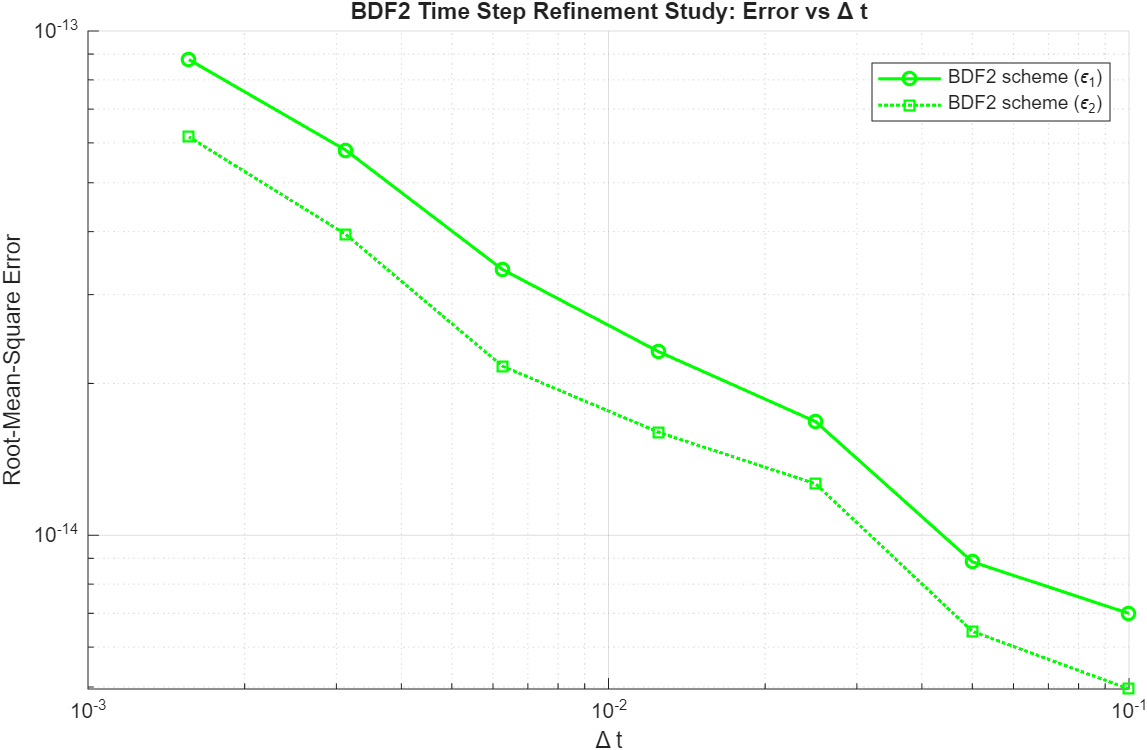
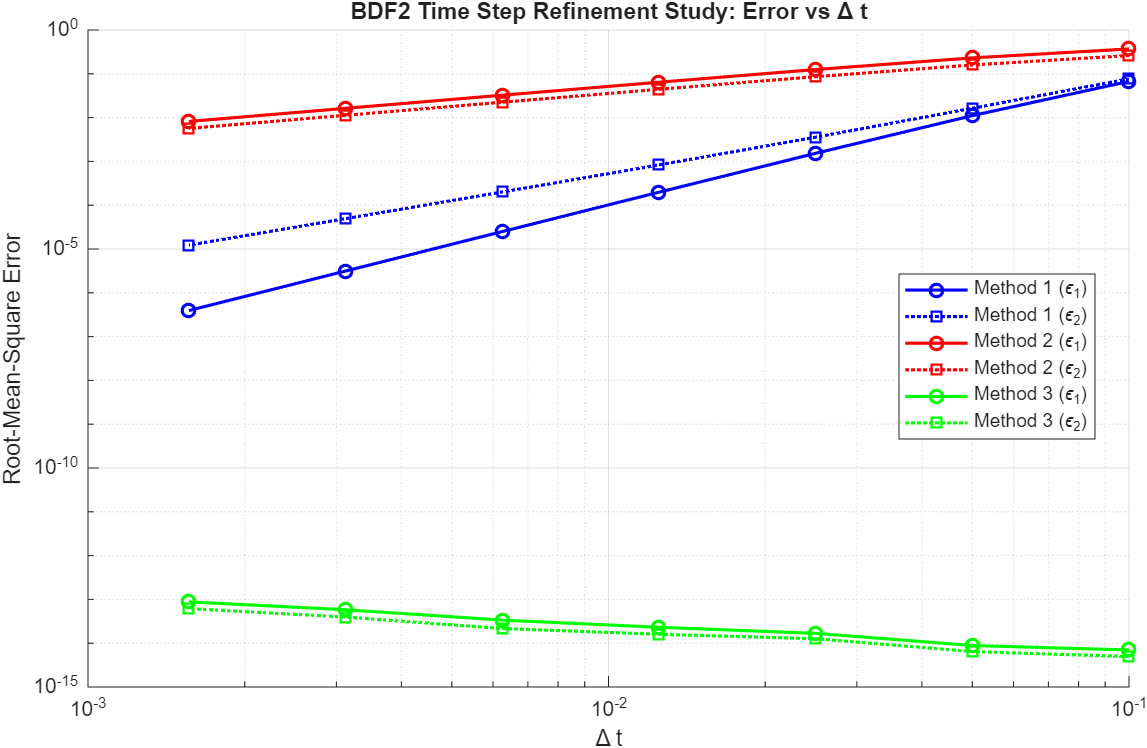
ex2.4 fix

diff --git a/MatlabExercise3/matlab/DGCL-1D/dglc_BDF2_ex24.m b/MatlabExercise3/matlab/DGCL-1D/dglc_BDF2_ex24.m
@@ -23,7 +23,7 @@ set(gca, 'XScale', 'log', 'YScale', 'log'); % Ensure log-log axes
 grid on;
 
 %% Outer loop for the 3 methods
-for method = 3
+for method = 1:3
     
     % Arrays to store the computed errors for this method
     err1_array = zeros(1, length(k_vals));
@@ -136,10 +136,10 @@ for method = 3
     c = colors{method};
     
     % Epsilon 1: Solid line with circle markers
-    plot(dt_array, err1_array, [c '-o'], 'DisplayName', ['BDF2 scheme' ' (\epsilon_1)'], 'LineWidth', 1.5);
+    plot(dt_array, err1_array, [c '-o'], 'DisplayName', ['Method ' num2str(method) ' (\epsilon_1)'], 'LineWidth', 1.5);
     
     % Epsilon 2: Dotted line with square markers
-    plot(dt_array, err2_array, [c ':s'], 'DisplayName', ['BDF2 scheme' ' (\epsilon_2)'], 'LineWidth', 1.5);
+    plot(dt_array, err2_array, [c ':s'], 'DisplayName', ['Method ' num2str(method) ' (\epsilon_2)'], 'LineWidth', 1.5);
     
 end
 
